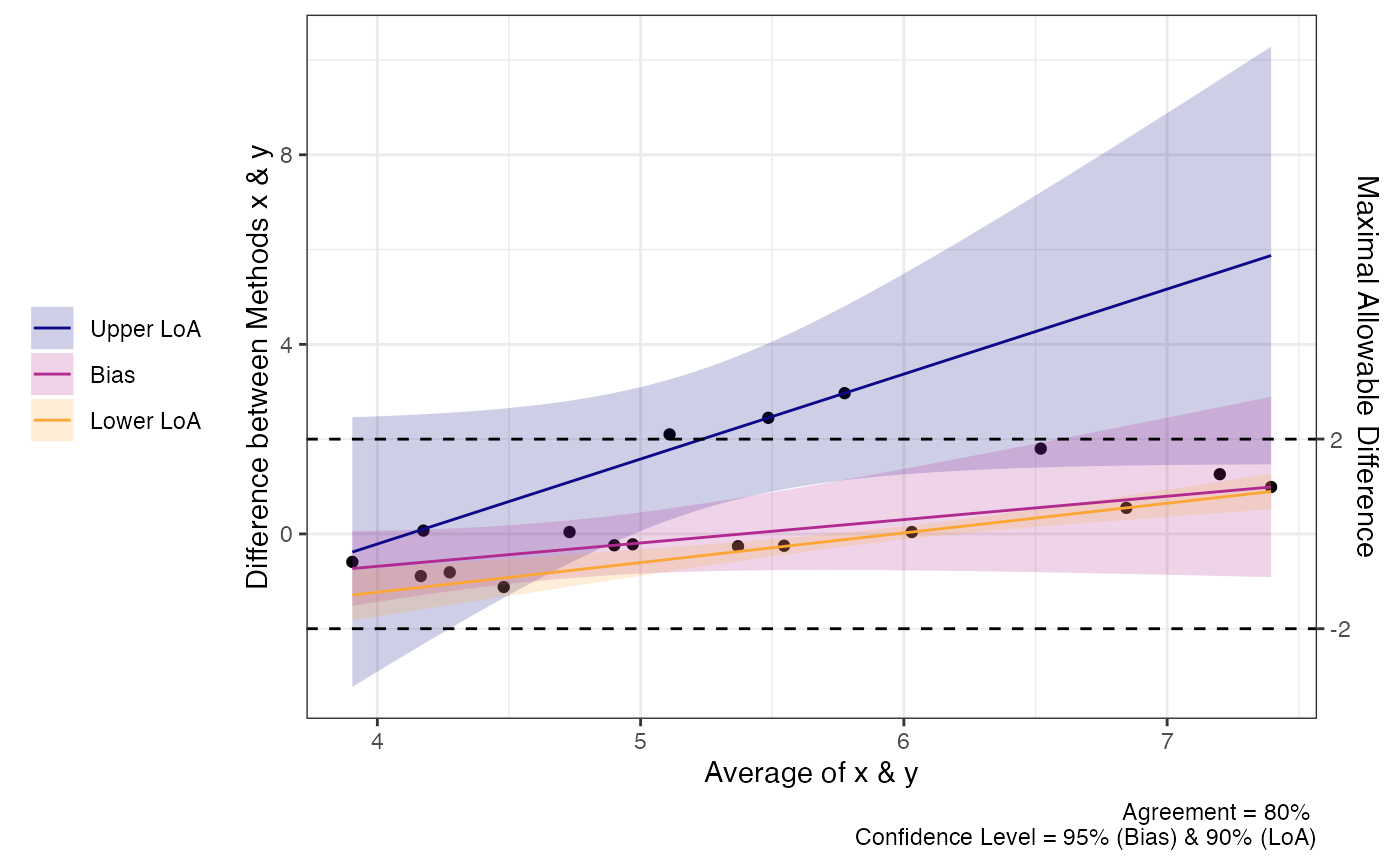
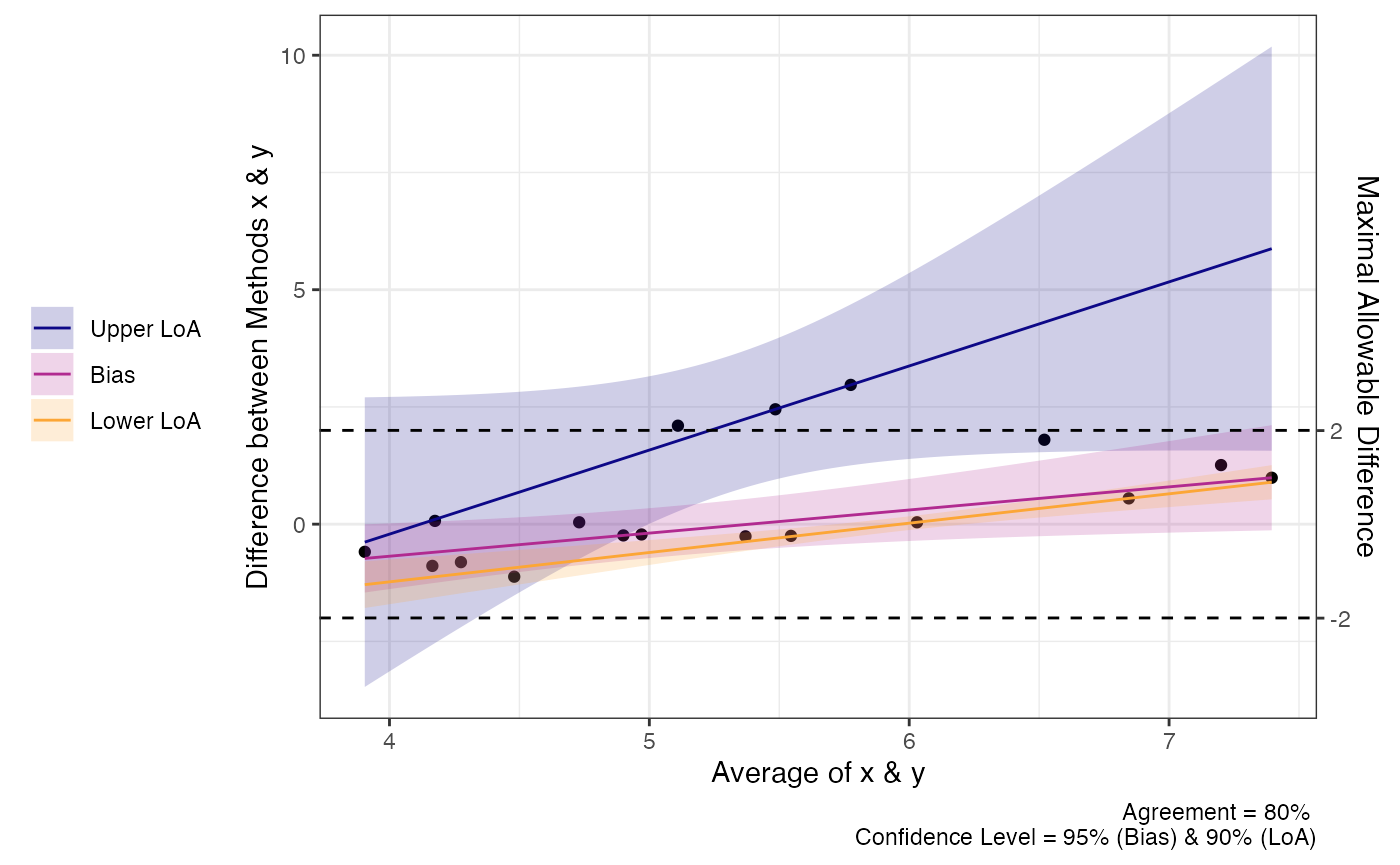
Update

diff --git a/docs/articles/agreement_analysis.html b/docs/articles/agreement_analysis.html
@@ -643,6 +643,8 @@ are no longer symmetric around the bias estimate.</p>
               delta <span class="op">=</span> <span class="fl">2</span>,
               prop_bias <span class="op">=</span> <span class="cn">FALSE</span>,
               agree.level <span class="op">=</span> <span class="fl">.8</span><span class="op">)</span>
+<span class="co">#&gt; Warning in agree_np(x = "x", y = "y", data = reps, delta = 2, prop_bias =</span>
+<span class="co">#&gt; FALSE, : Evidence of proportional bias. Consider setting prop_bias to TRUE.</span>
 <span class="fu"><a href="https://rdrr.io/r/base/print.html" class="external-link">print</a></span><span class="op">(</span><span class="va">a1</span><span class="op">)</span>
 <span class="co">#&gt; Limit of Agreement = 80%</span>
 <span class="co">#&gt; Binomial proportions test and quantile regression for LoA</span>
@@ -653,9 +655,9 @@ are no longer symmetric around the bias estimate.</p>
 <span class="co">#&gt; </span>
 <span class="co">#&gt; ###- Quantile Limits of Agreement (LoA) -###</span>
 <span class="co">#&gt;           Estimate Lower CI Upper CI CI Level</span>
-<span class="co">#&gt; Lower LoA    -0.89  -1.3929  -0.3871     0.90</span>
-<span class="co">#&gt; Bias          0.04  -0.5739   0.6539     0.95</span>
-<span class="co">#&gt; Upper LoA     2.45   1.2239   3.6761     0.90</span>
+<span class="co">#&gt; Lower LoA    -0.89  -1.3905  -0.3895     0.90</span>
+<span class="co">#&gt; Bias          0.04  -0.6045   0.6845     0.95</span>
+<span class="co">#&gt; Upper LoA     2.45   1.2950   3.6050     0.90</span>
 
 <span class="fu"><a href="https://rdrr.io/r/graphics/plot.default.html" class="external-link">plot</a></span><span class="op">(</span><span class="va">a1</span><span class="op">)</span></code></pre></div>
 <p><img src="agreement_analysis_files/figure-html/unnamed-chunk-13-1.png" width="700"></p>
@@ -679,15 +681,15 @@ agreement does not.</p>
 <span class="co">#&gt; </span>
 <span class="co">#&gt; ###- Quantile Limits of Agreement (LoA) -###</span>
 <span class="co">#&gt;                  Estimate Lower CI Upper CI CI Level</span>
-<span class="co">#&gt; Lower LoA @ 3.9  -1.28975  -1.7229 -0.85662     0.90</span>
-<span class="co">#&gt; Lower LoA @ 5.24 -0.45436  -0.6345 -0.27426     0.90</span>
-<span class="co">#&gt; Lower LoA @ 7.4   0.89417   0.5113  1.27708     0.90</span>
-<span class="co">#&gt; Bias @ 3.9       -0.73052  -1.4830  0.02199     0.95</span>
-<span class="co">#&gt; Bias @ 5.24      -0.07238  -0.6436  0.49880     0.95</span>
-<span class="co">#&gt; Bias @ 7.4        0.99000  -0.1748  2.15482     0.95</span>
-<span class="co">#&gt; Upper LoA @ 3.9  -0.38310  -2.5902  1.82395     0.90</span>
-<span class="co">#&gt; Upper LoA @ 5.24  2.01069   0.8578  3.16357     0.90</span>
-<span class="co">#&gt; Upper LoA @ 7.4   5.87483   2.3384  9.41124     0.90</span>
+<span class="co">#&gt; Lower LoA @ 3.9  -1.28975  -1.7389  -0.8406     0.90</span>
+<span class="co">#&gt; Lower LoA @ 5.24 -0.45436  -0.6595  -0.2492     0.90</span>
+<span class="co">#&gt; Lower LoA @ 7.4   0.89417   0.5687   1.2197     0.90</span>
+<span class="co">#&gt; Bias @ 3.9       -0.73052  -1.3219  -0.1392     0.95</span>
+<span class="co">#&gt; Bias @ 5.24      -0.07238  -0.5927   0.4479     0.95</span>
+<span class="co">#&gt; Bias @ 7.4        0.99000  -0.2865   2.2665     0.95</span>
+<span class="co">#&gt; Upper LoA @ 3.9  -0.38310  -3.1889   2.4227     0.90</span>
+<span class="co">#&gt; Upper LoA @ 5.24  2.01069   0.7929   3.2285     0.90</span>
+<span class="co">#&gt; Upper LoA @ 7.4   5.87483   2.1978   9.5519     0.90</span>
 
 <span class="fu"><a href="https://rdrr.io/r/graphics/plot.default.html" class="external-link">plot</a></span><span class="op">(</span><span class="va">a1</span><span class="op">)</span></code></pre></div>
 <p><img src="agreement_analysis_files/figure-html/unnamed-chunk-14-1.png" width="700"></p>

diff --git a/docs/reference/agree_np.html b/docs/reference/agree_np.html
@@ -131,7 +131,6 @@
     <h2>Examples</h2>
     <div class="sourceCode"><pre class="sourceCode r"><code><span class="r-in"><span class="fu"><a href="https://rdrr.io/r/utils/data.html" class="external-link">data</a></span><span class="op">(</span><span class="st">'reps'</span><span class="op">)</span></span>
 <span class="r-in"><span class="fu">agree_np</span><span class="op">(</span>x <span class="op">=</span> <span class="st">"x"</span>, y <span class="op">=</span> <span class="st">"y"</span>, id <span class="op">=</span> <span class="st">"id"</span>, data <span class="op">=</span> <span class="va">reps</span>, delta <span class="op">=</span> <span class="fl">2</span><span class="op">)</span></span>
-<span class="r-wrn co"><span class="r-pr">#&gt;</span> <span class="warning">Warning: </span>Evidence of proportional bias. Consider setting prop_bias to TRUE.</span>
 <span class="r-out co"><span class="r-pr">#&gt;</span> Limit of Agreement = 95%</span>
 <span class="r-out co"><span class="r-pr">#&gt;</span> Binomial proportions test and quantile regression for LoA</span>
 <span class="r-out co"><span class="r-pr">#&gt;</span> </span>
@@ -141,9 +140,9 @@
 <span class="r-out co"><span class="r-pr">#&gt;</span> </span>
 <span class="r-out co"><span class="r-pr">#&gt;</span> ###- Quantile Limits of Agreement (LoA) -###</span>
 <span class="r-out co"><span class="r-pr">#&gt;</span>           Estimate Lower CI Upper CI CI Level</span>
-<span class="r-out co"><span class="r-pr">#&gt;</span> Lower LoA    -1.12  -1.4360  -0.8040     0.90</span>
-<span class="r-out co"><span class="r-pr">#&gt;</span> Bias          0.04  -0.6003   0.6803     0.95</span>
-<span class="r-out co"><span class="r-pr">#&gt;</span> Upper LoA     2.97   2.1583   3.7817     0.90</span>
+<span class="r-out co"><span class="r-pr">#&gt;</span> Lower LoA    -1.12  -1.5107  -0.7293     0.90</span>
+<span class="r-out co"><span class="r-pr">#&gt;</span> Bias          0.04  -0.6113   0.6913     0.95</span>
+<span class="r-out co"><span class="r-pr">#&gt;</span> Upper LoA     2.97   2.2586   3.6814     0.90</span>
 <span class="r-out co"><span class="r-pr">#&gt;</span> </span>
 </code></pre></div>
     </div>

diff --git a/docs/articles/reliability_analysis.html b/docs/articles/reliability_analysis.html
@@ -465,18 +465,15 @@ SEM = \sqrt{MSE}
 \]</span> Alternatively, the SEM can be calculated as the following and
 the ICC is determined through the <code>se_type</code> argument:</p>
 <p><span class="math display">\[
-SEM = \sqrt{\frac{\sigma^2+\sigma^2_{\alpha j}+\sigma^2_{\alpha
-k}}{(N-1)}} \cdot \sqrt{1-ICC}
+SEM = \sqrt{\frac{SS_{total}}{(N-1)}} \cdot \sqrt{1-ICC}
 \]</span> The other measures default to using the following equations.
 The default is to use <span class="math inline">\(ICC_{3,1}\)</span>,
 but can be modified with the <code>se_type</code> argument.</p>
 <p><span class="math display">\[
-SEE = \sqrt{\frac{\sigma^2+\sigma^2_{\alpha j}+\sigma^2_{\alpha
-k}}{(N-1)}} \cdot \sqrt{ICC \cdot (1-ICC)}
+SEE = \sqrt{\frac{SS_{total}}{(N-1)}} \cdot \sqrt{ICC \cdot (1-ICC)}
 \]</span></p>
 <p><span class="math display">\[
-SEP = \sqrt{\frac{\sigma^2+\sigma^2_{\alpha j}+\sigma^2_{\alpha
-k}}{(N-1)}} \cdot \sqrt{1-ICC^2}
+SEP = \sqrt{\frac{SS_{total}}{(N-1)}} \cdot \sqrt{1-ICC^2}
 \]</span></p>
 </div>
 <div class="section level3">
